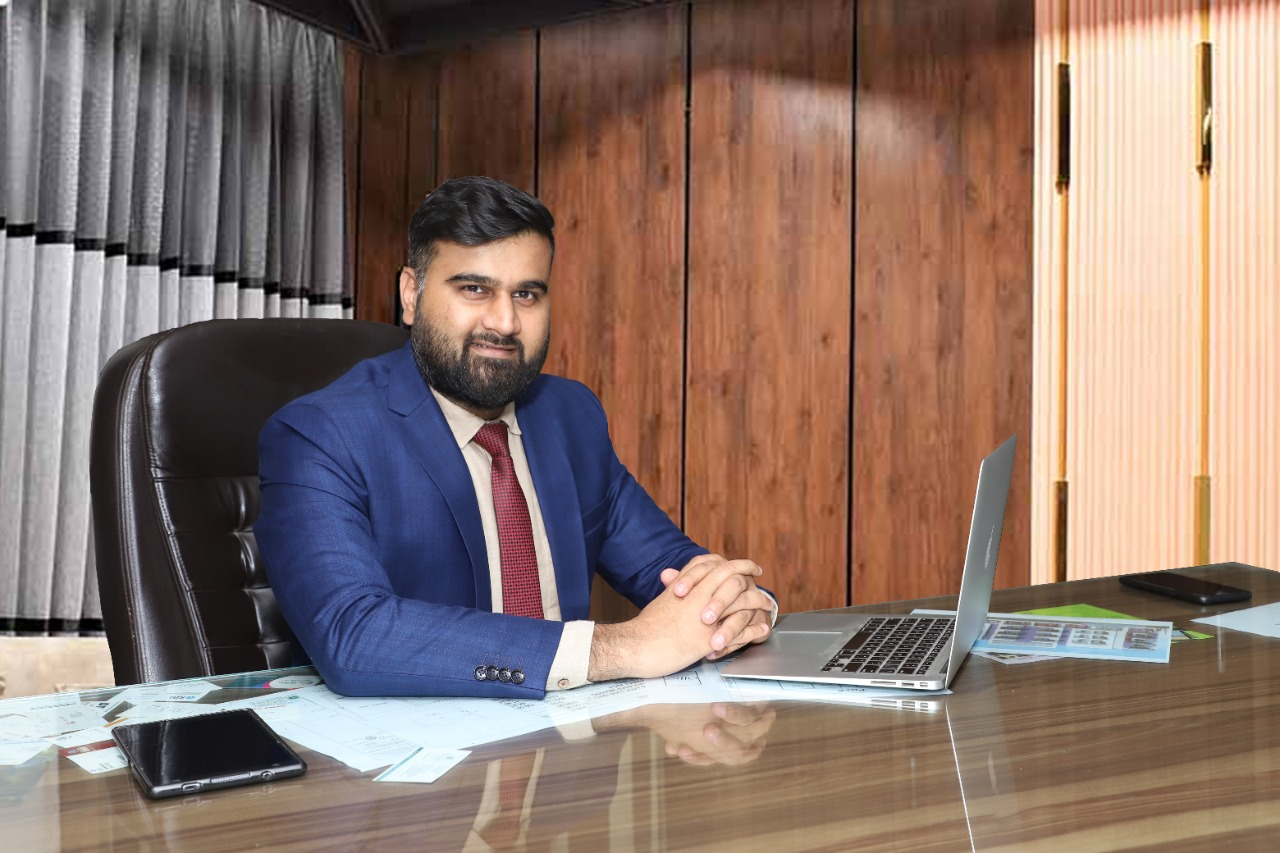
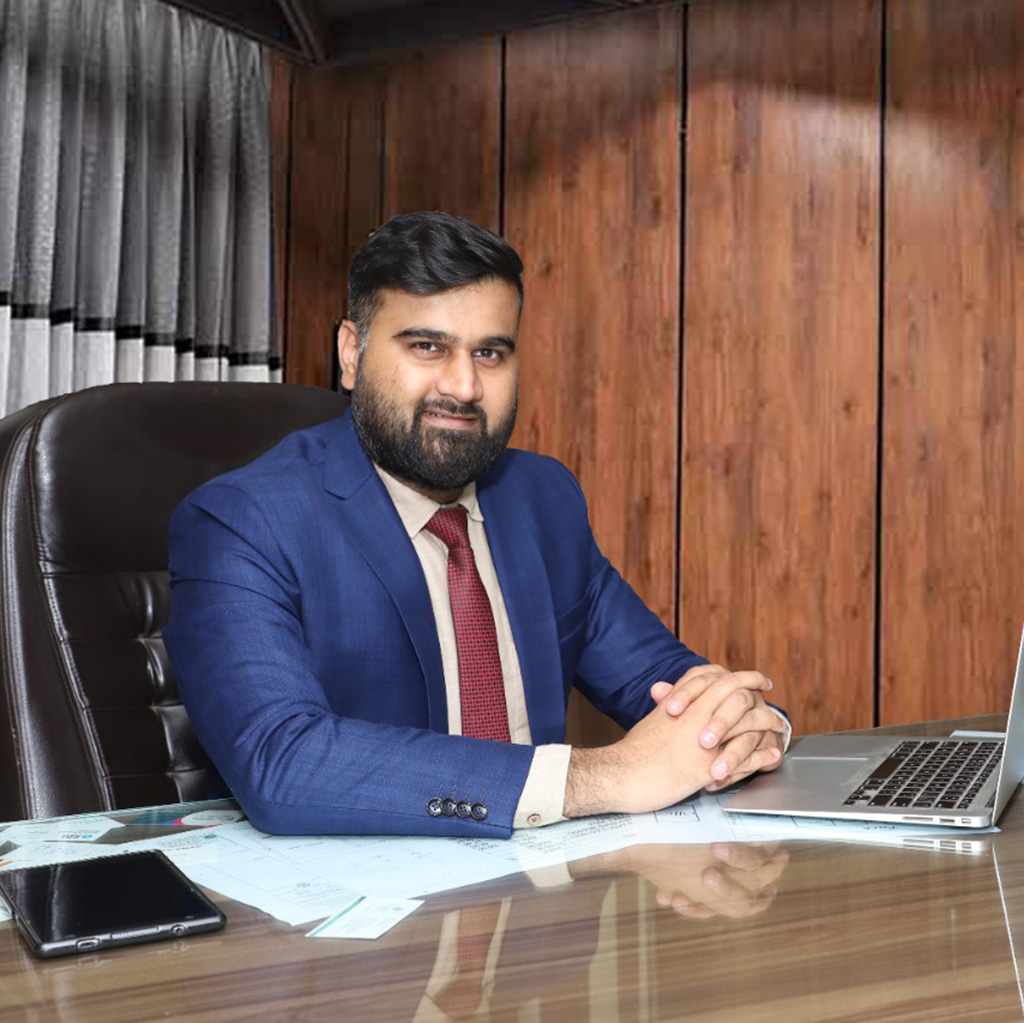
update team images

diff --git a/src/Components/Team/Team.jsx b/src/Components/Team/Team.jsx
@@ -1,6 +1,7 @@
 import React from "react";
 import "./Team.css";
 import digendra from "../images/Team/digendra.jpg";
+import adithya from "../images/Team/adithya.jpg";
 
 const Team = () => {
   return (
@@ -25,7 +26,9 @@ const Team = () => {
             </div>
           </div>
           <div className="member">
-            <div className="img-wrapper"></div>
+            <div className="img-wrapper">
+              <img src={adithya} alt="" />
+            </div>
             <h1>Adithya Singh Rathore</h1>
             <p>Co-Founder, CPO</p>
             <div className="links">
